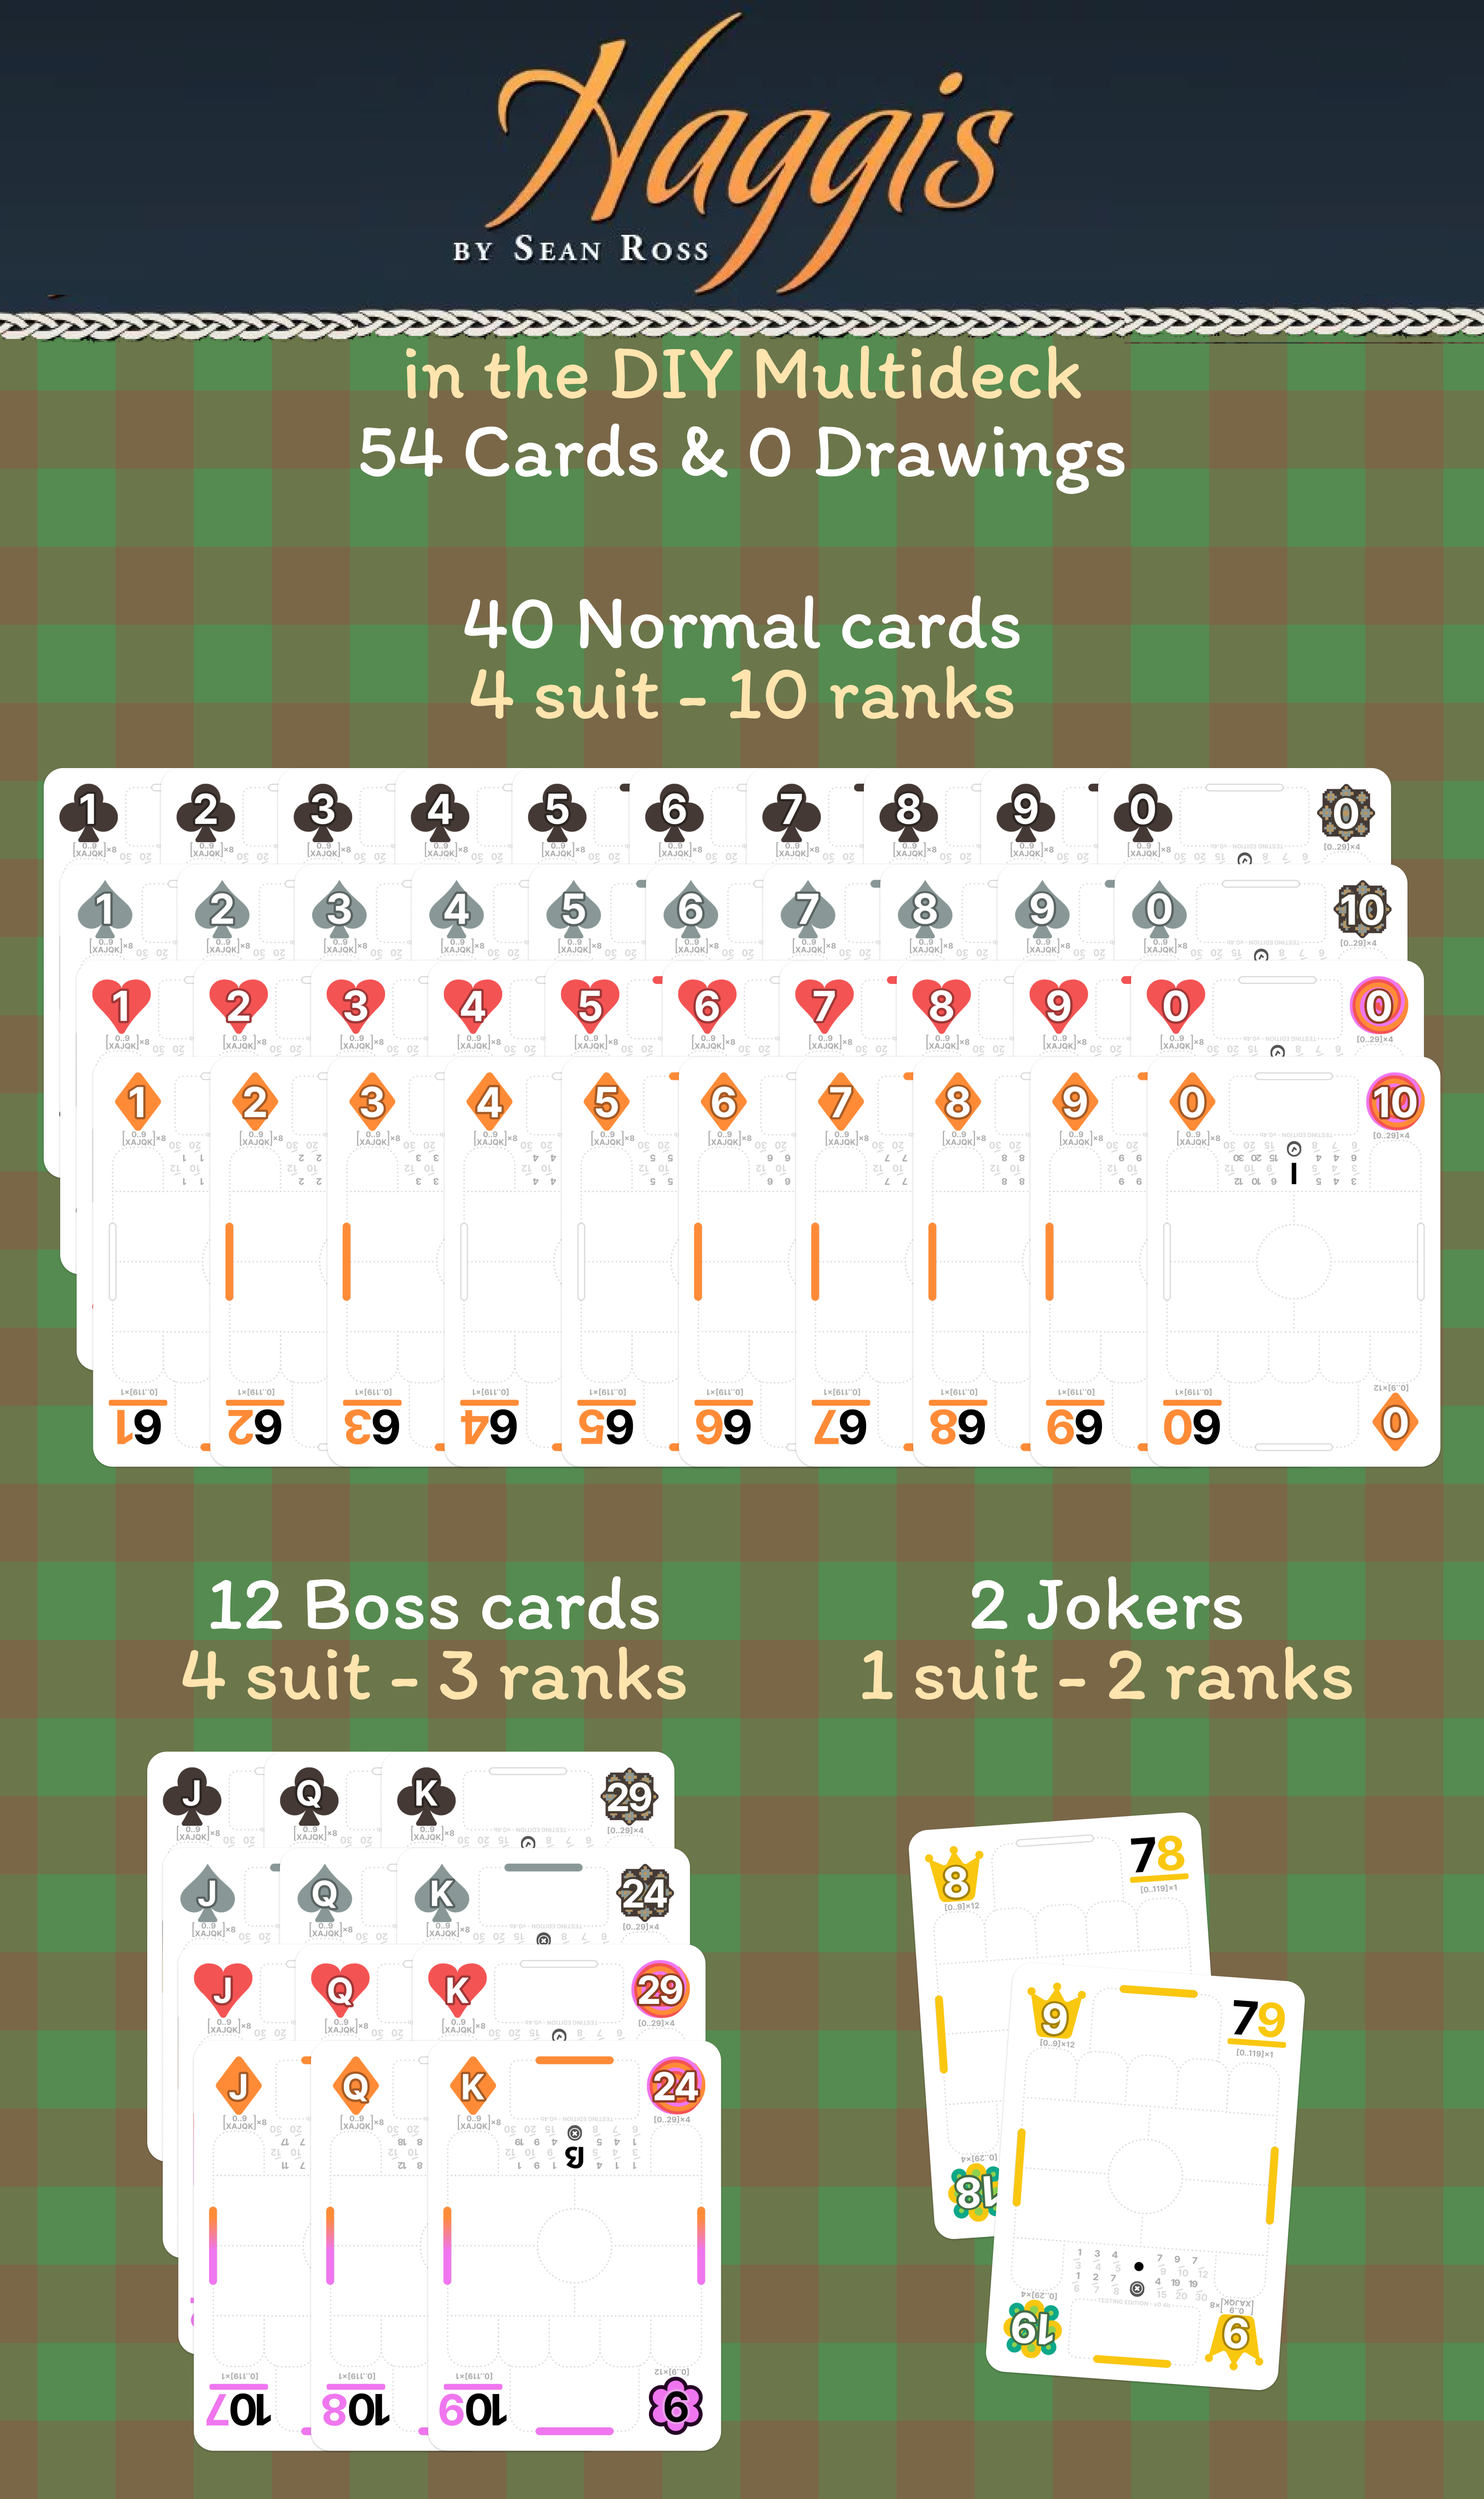
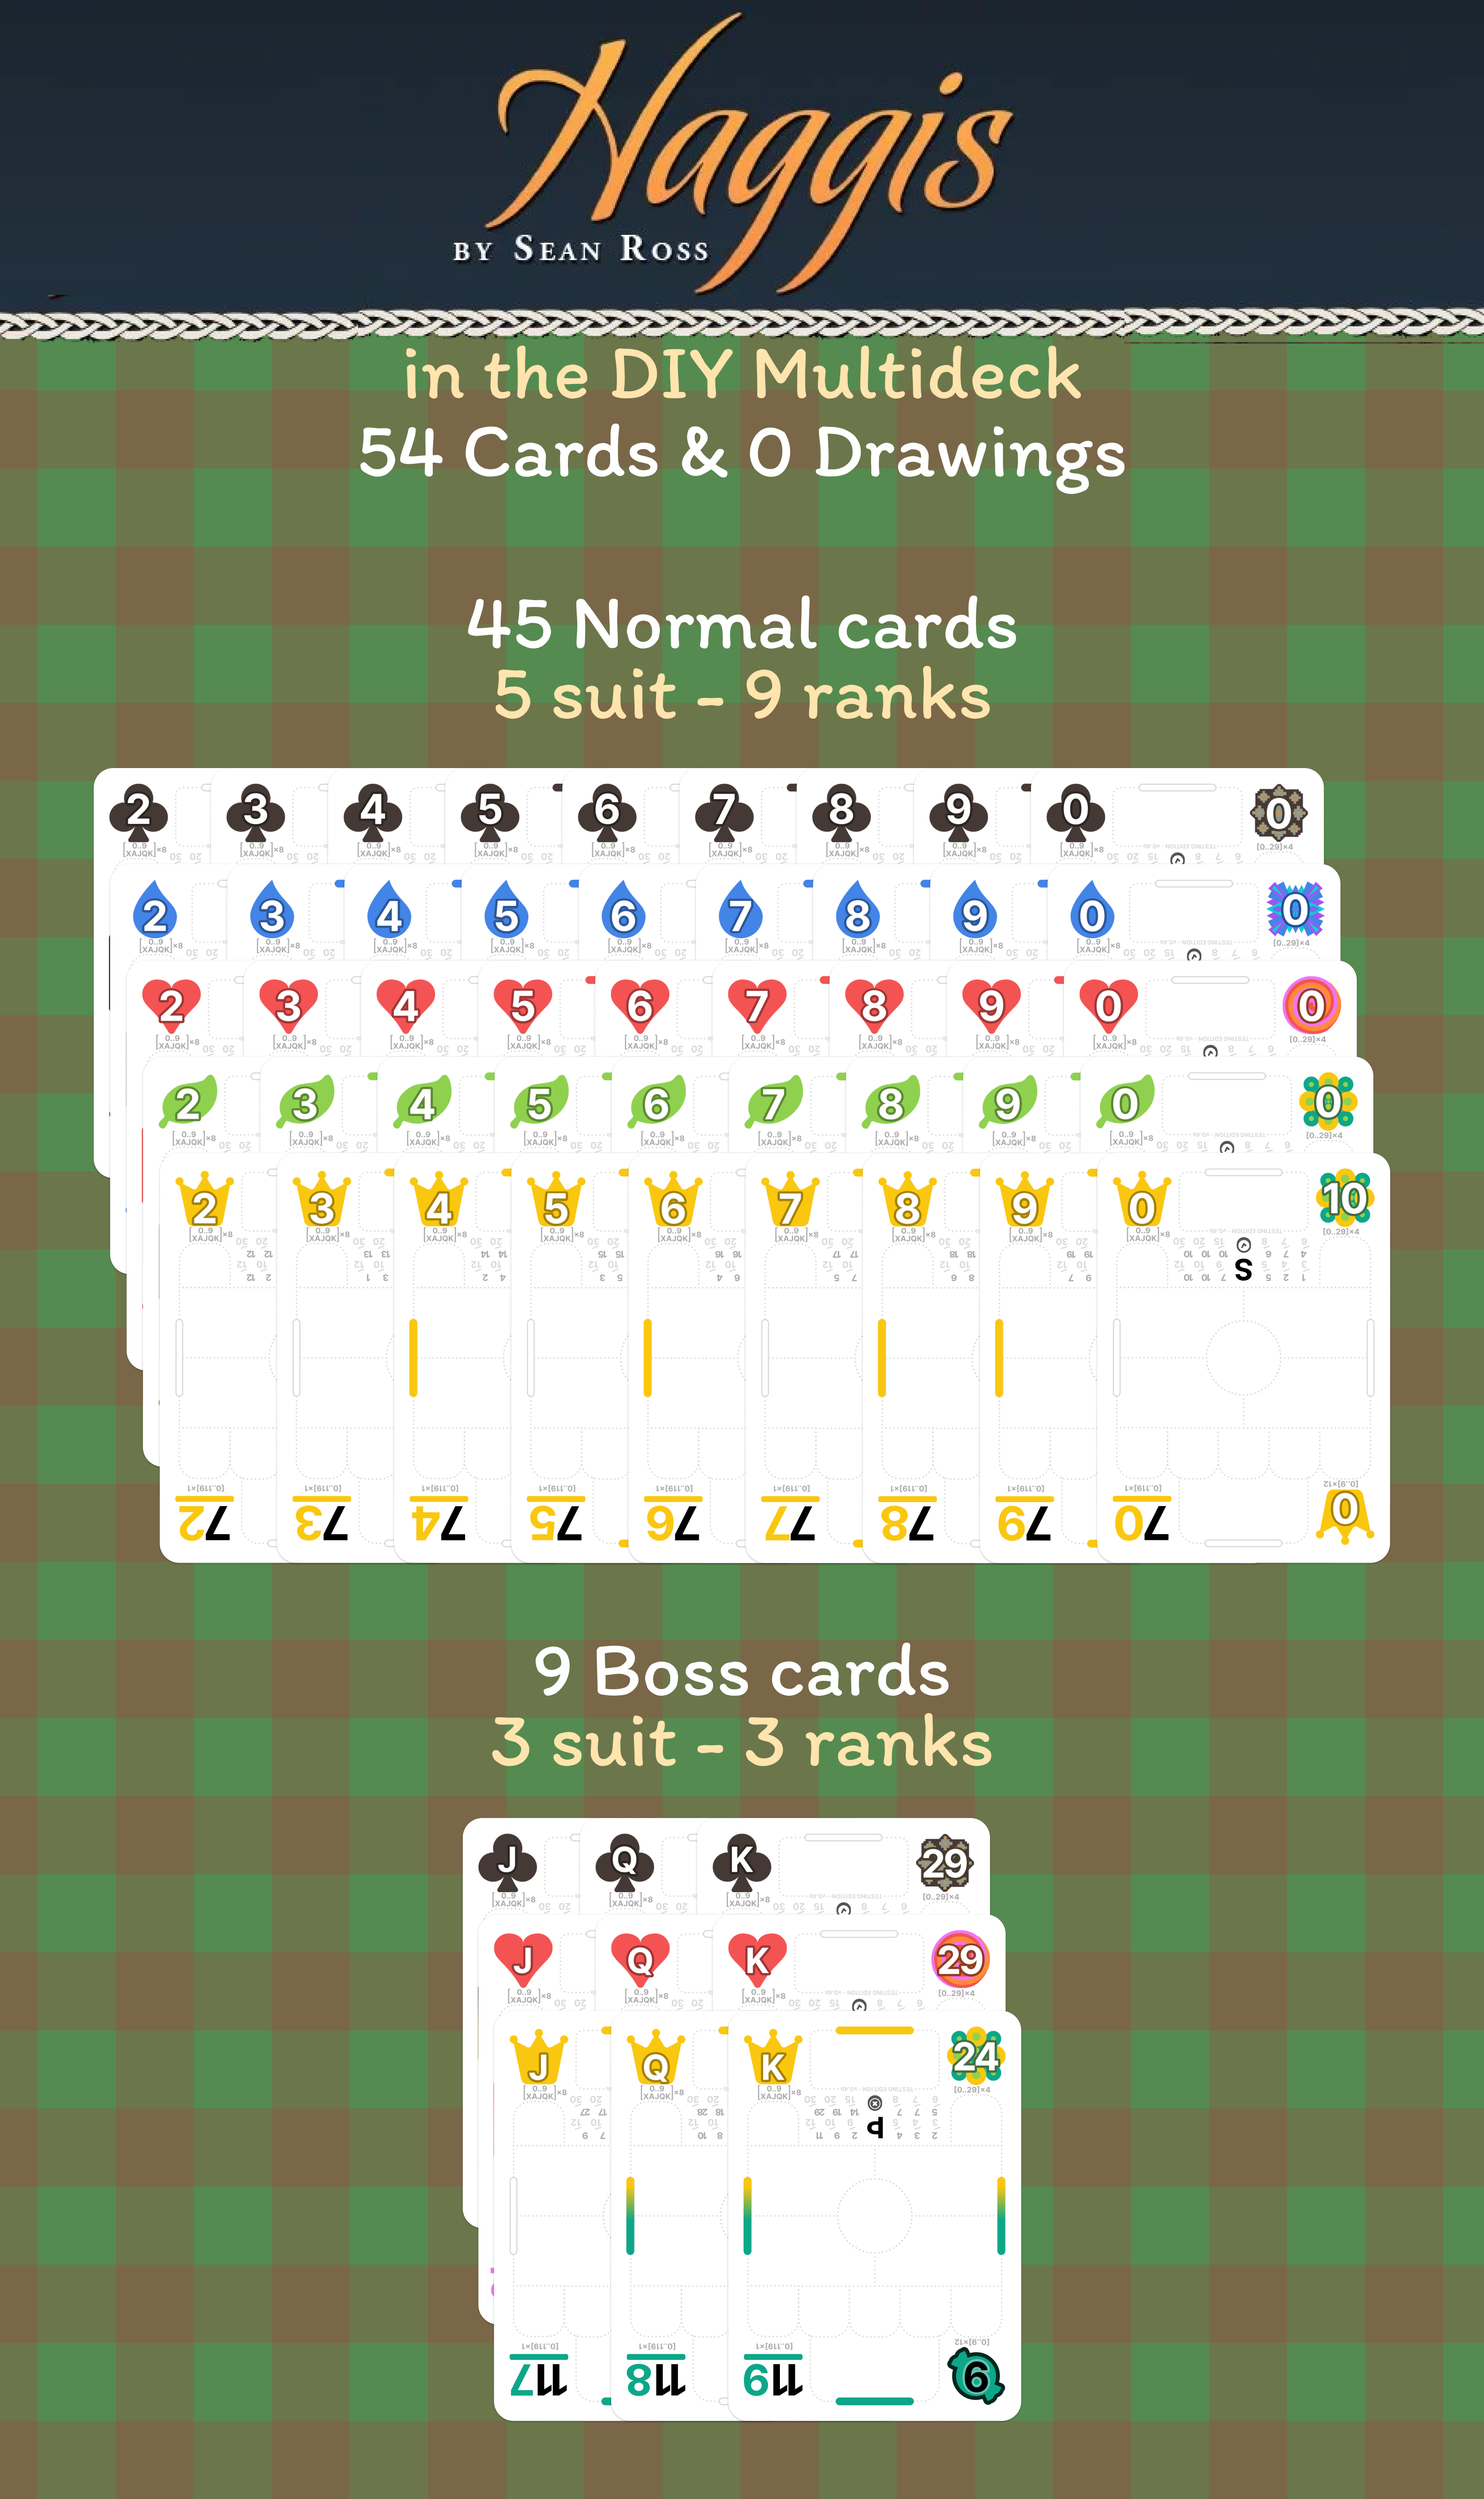
Fix haggins

Changed region(s): [[0.0311, 0.2188, 0.9937, 1.0], [0.8074, 0.5, 0.8384, 0.5312]]

diff --git a/content/games/haggis.md b/content/games/haggis.md
@@ -31,3 +31,7 @@ To play Haggis you need 54 cards and 0 drawings.
 ### Instructions
 
 ![cards mapping](/images/games/haggis/guide.png)
+
+## Usage
+
+- The `0`s represent `10`s.
